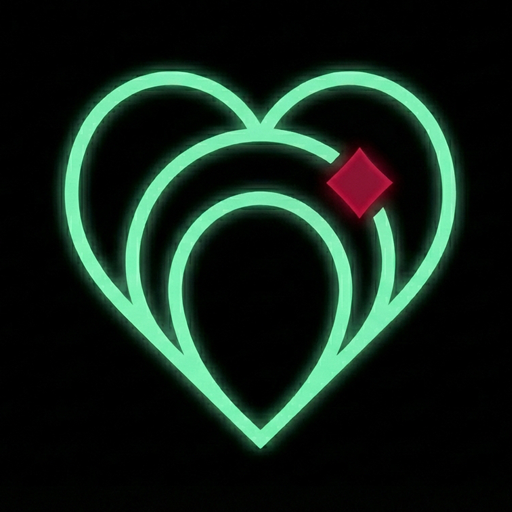
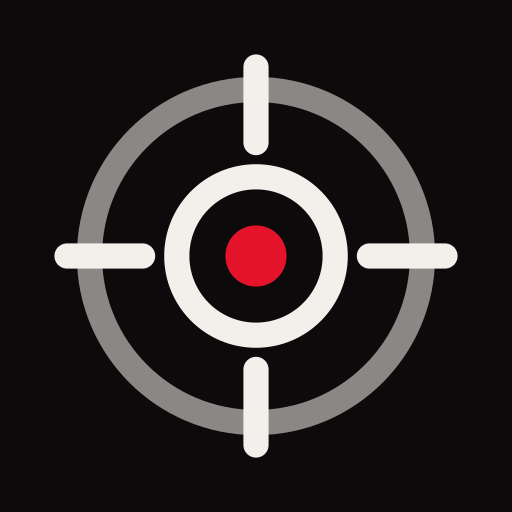
feat(brand): 조준경 마크로 파비콘·앱아이콘·OG 이미지 교체 + 매니페스트 갱신 + 푸터 사업자정보
- scripts/gen-brand-assets.mjs: BrandMark(조준경 SVG)를 sharp로 래스터화
- 파비콘/애플: app/icon.png · app/apple-icon.png (Next 파일 컨벤션), 옛 favicon.ico·apple-touch-icon.png 제거
- PWA: public/icon-192·512.png, logo.png 새 마크로 재생성
- OG: public/og.png(1200x630, 마크+워드마크+태그라인), layout og/twitter images 연결
- manifest.json: 옛 이름/민트색 → 'AI 위장 여사친 판독기' + 다크 테마
- 푸터: 사업자 정보(상호 Ascentum · 사업자등록번호 478-59-01063) 추가

diff --git a/app/layout.tsx b/app/layout.tsx
@@ -39,10 +39,10 @@ export const metadata: Metadata = {
     description: "내 남친이 맞팔 중인 여자들, 누가 제일 위험할까? AI가 인스타그램을 분석해 위장 여사친을 찾아드립니다.",
     images: [
       {
-        url: "/logo.png",
-        width: 512,
-        height: 512,
-        alt: "AI 위장 여사친 판독기 로고",
+        url: "/og.png",
+        width: 1200,
+        height: 630,
+        alt: "위장여사친 판독기",
       },
     ],
   },
@@ -50,11 +50,7 @@ export const metadata: Metadata = {
     card: "summary_large_image",
     title: "AI 위장 여사친 판독기",
     description: "내 남친이 맞팔 중인 여자들, 누가 제일 위험할까?",
-    images: ["/logo.png"],
-  },
-  icons: {
-    icon: "/favicon.ico",
-    apple: "/apple-touch-icon.png",
+    images: ["/og.png"],
   },
   manifest: "/manifest.json",
 };

diff --git a/app/page.tsx b/app/page.tsx
@@ -456,6 +456,9 @@ export default function LandingPage() {
               개인정보처리방침
             </Link>
           </div>
+          <p className="num mt-5 text-[11px] leading-relaxed text-fg-mute">
+            상호: Ascentum · 사업자등록번호: 478-59-01063
+          </p>
         </footer>
       </main>
 